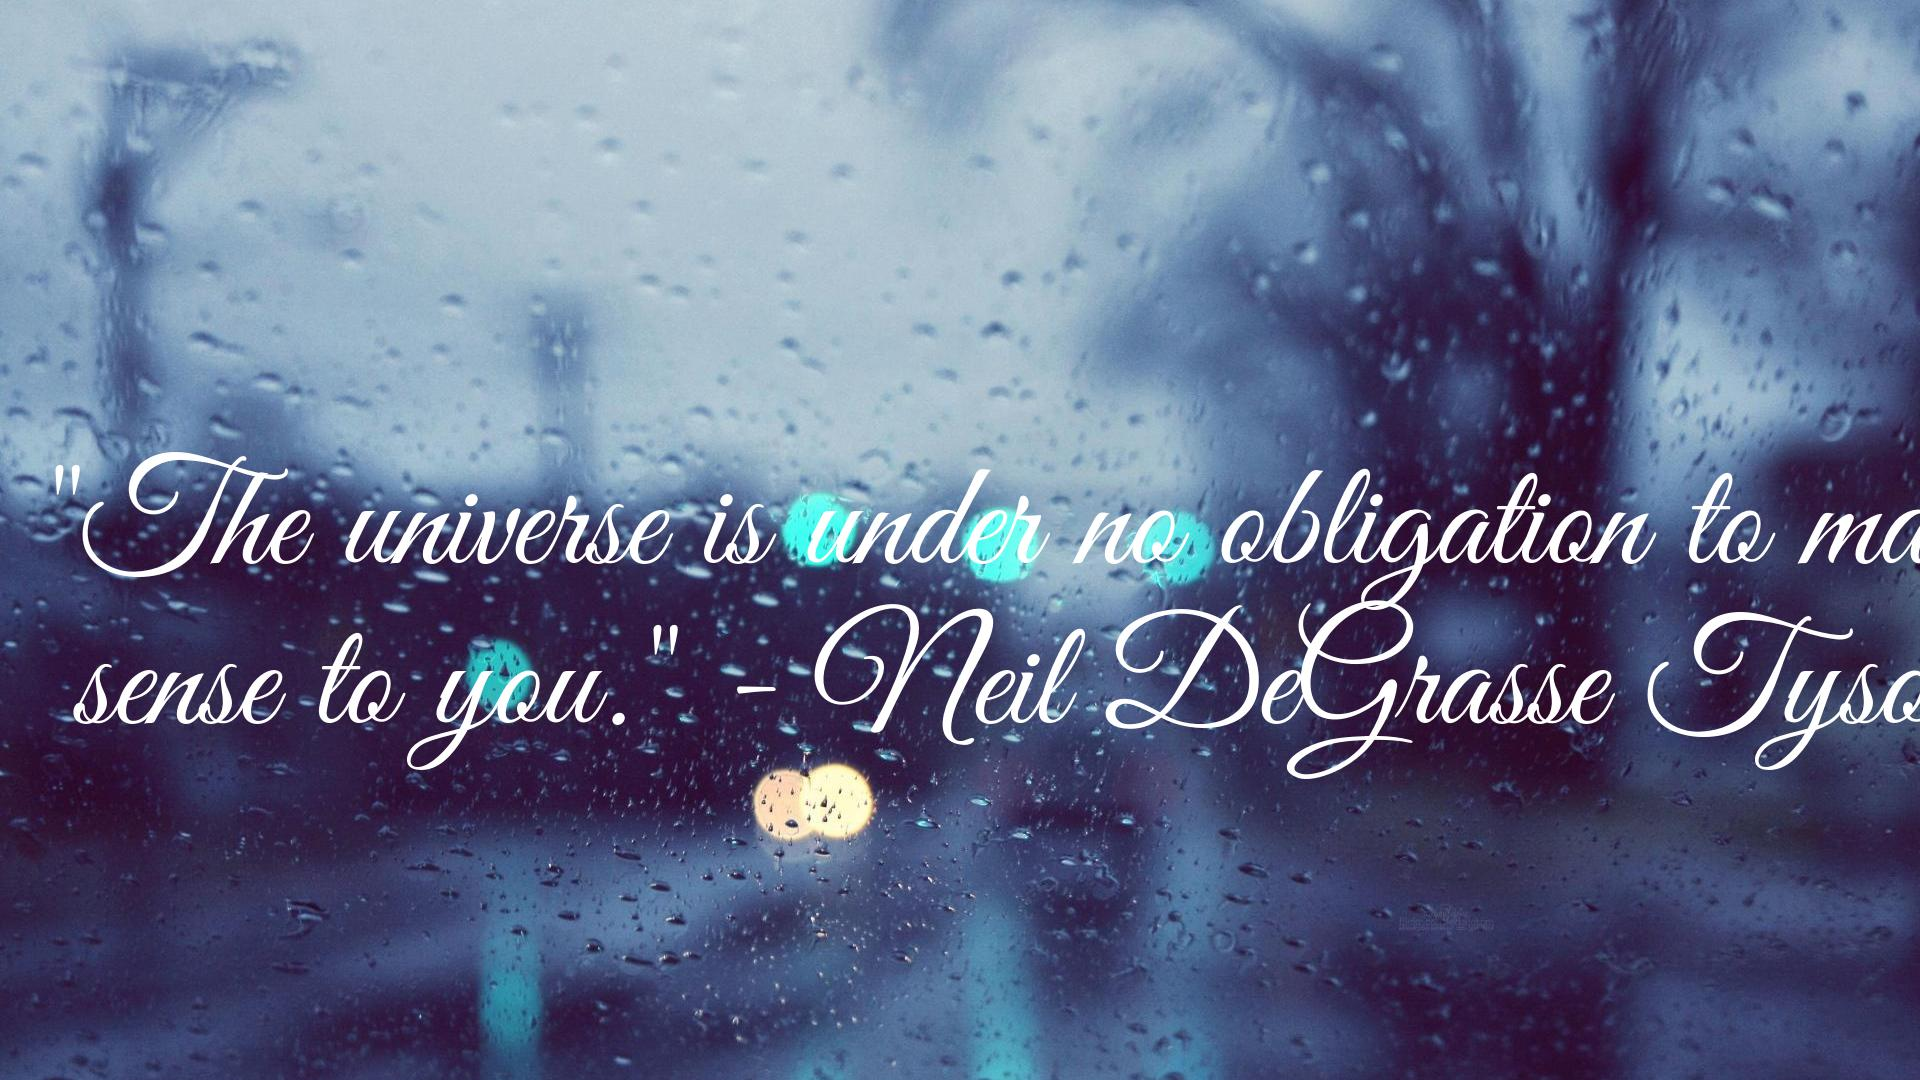
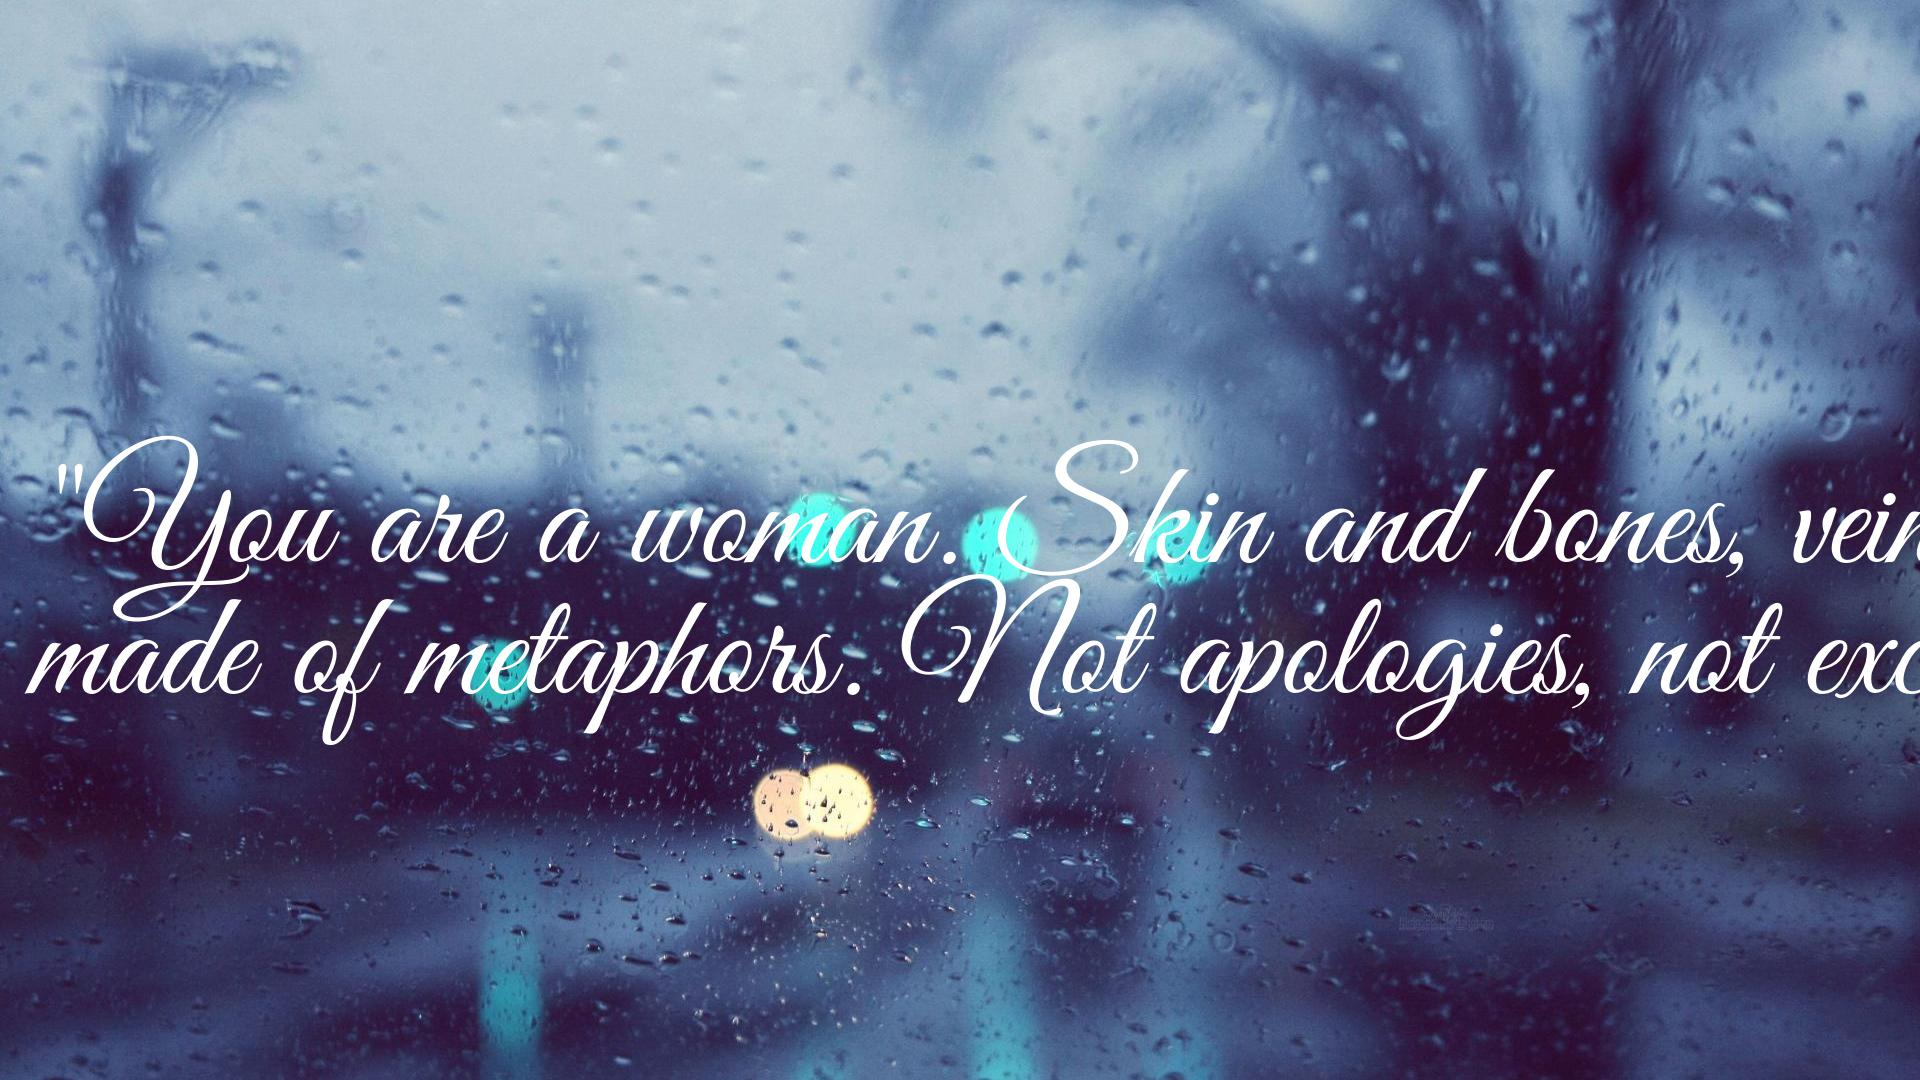
Versione Buggata, ma migliore

Changed region(s): [[0.0, 0.3972, 1.0, 0.7333], [0.5625, 0.3972, 0.5938, 0.4278]]

diff --git a/TestingPesante/TestingImg.py b/TestingPesante/TestingImg.py
@@ -18,56 +18,45 @@ def PostaInstagram():
     photo_path = '/home/alex/Documenti/LOL/C0D3rPAzZ0/Baws/Al/PyTumblr_project/TestingPesante/0.jpg'
     caption = ":)"
     oInstagramAPI.uploadPhoto(photo_path, caption=caption)
+def stampa(stringa):
+    k =1
+    num_img =0
+    first_space=0
+    
+    img = Image.open("sfondo_quotes4.jpg")
+    draw = ImageDraw.Draw(img)
+    font = ImageFont.truetype("GreatVibes-Regular.otf" , 150)
+            
+    while(first_space<len(stringa)):
+        first_space=40*k
+        if(first_space < len(stringa)): 
+            try:
+                while(first_space*k<len (stringa)):
+                    if(stringa[first_space]!=  ( (' ') or '')):
+                        first_space = first_space*k + 1 #becco il primo spazio per andare a capo
+                    else:
+                        break
+            except(IndexError):
+                print("Hai beccato na quote sfigata zio")
+            draw.text((30, 305+(130*k)),stringa[(k-1)*first_space:first_space*k],(255,255,255),font=font)#<---- Worka!
+            print(str(k) +'\t')
+
+            k +=1
+            num_img +=1
+            
+        else:
+            
+            draw.text((30, 435*k),stringa,(255,255,255),font=font)#<---- Worka!
+            
+            k +=1
+            num_img +=1
+    img.save(str(num_img)+'.jpg')
 if __name__ == '__main__':
     
     cits = get_titoli_from_reddit('quotes')
     print ("Elementi: "+ str(cits.__len__()))
-<<<<<<< HEAD
-    k =0
-    
-    for cit in cits:  
-        if(len(cit)>44):
-            s=40
-            try:
-                while(cit[s]!=   (' ') or ''):
-                    s+=1
-            except(IndexError):
-                print("Hai beccato na quote sfigata zio")
-            
-            img = Image.open("sfondo_quotes4.jpg")
-            draw = ImageDraw.Draw(img)
-            font = ImageFont.truetype("GreatVibes-Regular.otf" , 150)
-            draw.text((30, 435),cit[0:s],(255,255,255),font=font)#<---- Worka!
-            draw.text((30, 595),cit[s:],(255,255,255),font=font)
-            img.save(str(k)+'.jpg')
-            k +=1
-=======
-    k =1
-    
-    for cit in cits:  
-        if(len(cit)>44):#per le cazzo di quotes kilometiche
-            first_space=40
-            if(first_space * k < len(cit)): 
-                try:
-                    while(cit[first_space*k]!=   (' ') or ''):
-                        first_space = first_space*k + 1 #becco il primo spazio per andare a capo
-                except(IndexError):
-                    print("Hai beccato na quote sfigata zio")
-                img = Image.open("sfondo_quotes4.jpg")
-                draw = ImageDraw.Draw(img)
-                font = ImageFont.truetype("GreatVibes-Regular.otf" , 150)
-                draw.text((30, 435),cit[(k-1)*first_space:first_space*k],(255,255,255),font=font)#<---- Worka!
-                draw.text((30, 595),cit[first_space*k:],(255,255,255),font=font)
-                img.save(str(k)+'.jpg')
-                k +=1
->>>>>>> Porco dio mancava la commit iniziale
-        else:
-            img = Image.open("sfondo_quotes.jpg")
-            draw = ImageDraw.Draw(img)
-            font = ImageFont.truetype("GreatVibes-Regular.otf" , 72)
-            draw.text((30, 475),cit,(0,0,0),font=font)#<---- Worka!
-            img.save(str(k)+'.jpg')
-            k +=1
+    for k in cits:
+        stampa(k)
     #PostaInstagram()
             
     
